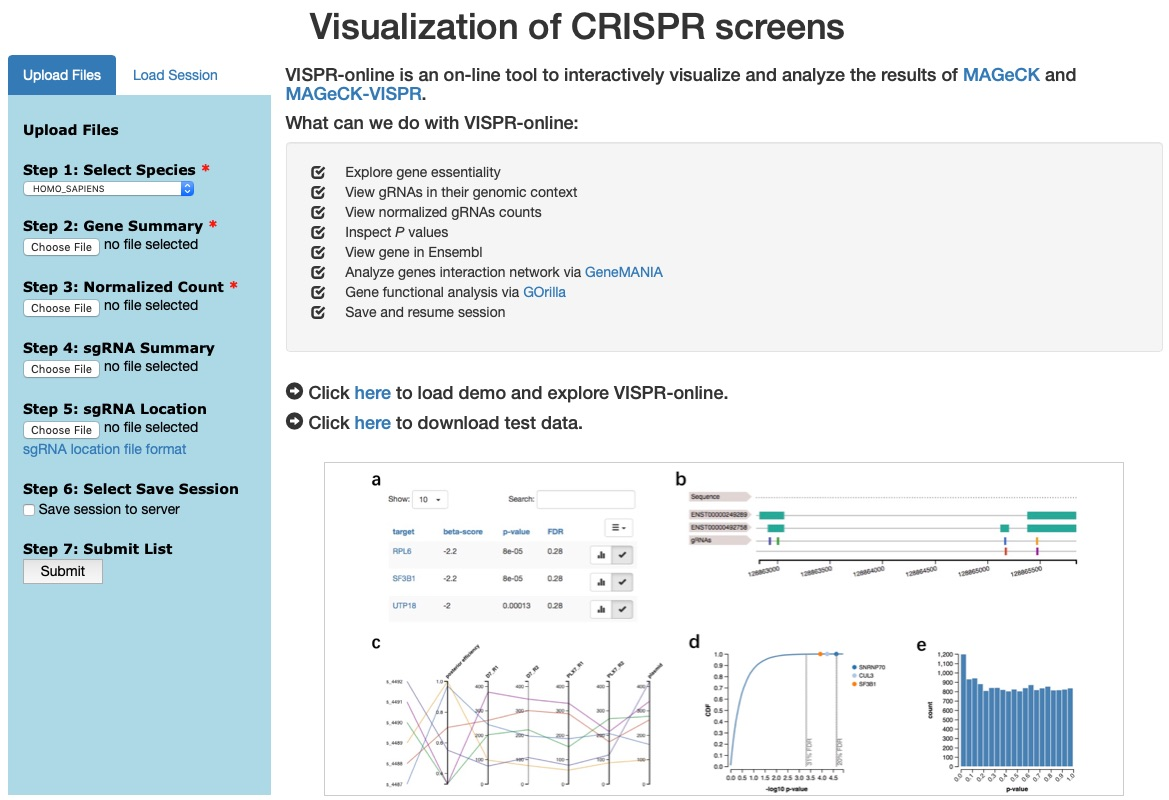
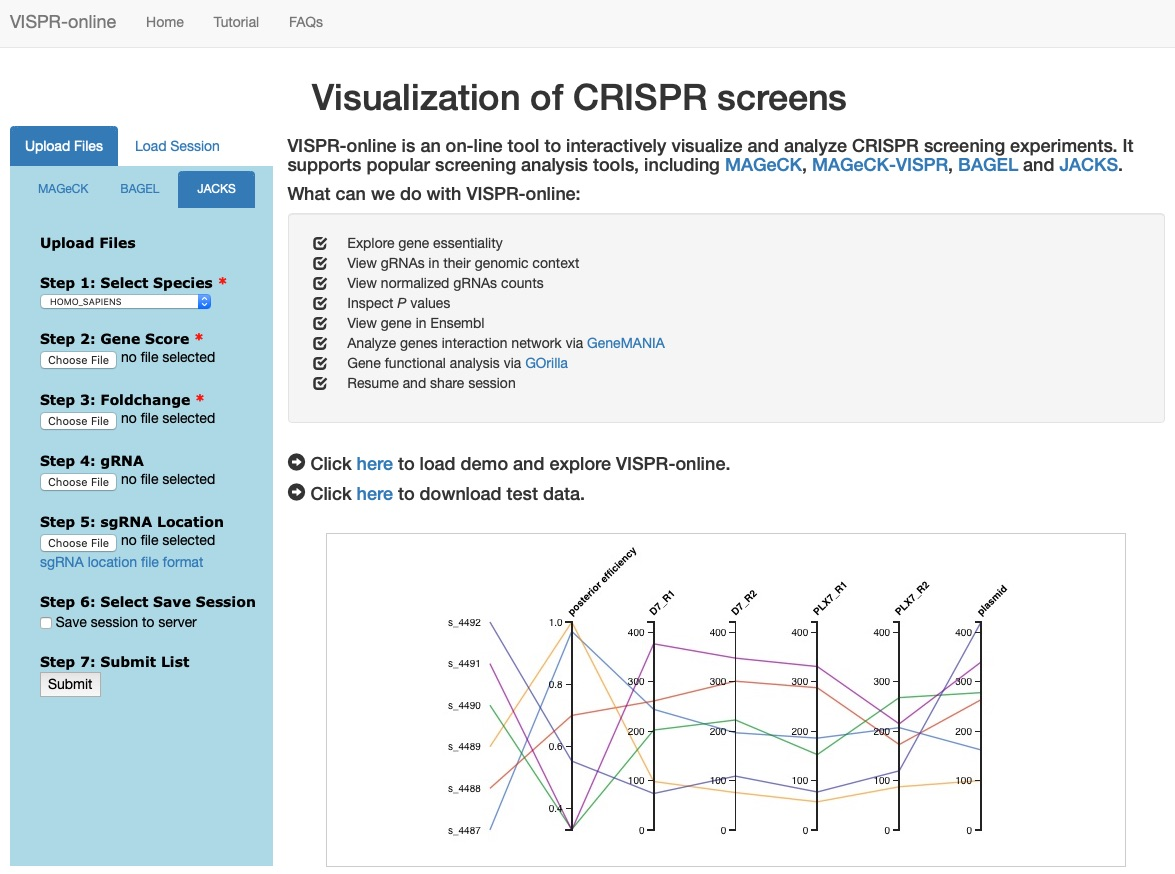
update home page

diff --git a/vispr_screen/templates/index.html b/vispr_screen/templates/index.html
@@ -323,9 +323,12 @@
     <div class="col-md-9">
       <div class="row">
         <p>
-        <h4>VISPR-online is an on-line tool to interactively visualize and analyze the results of
-          <a href="https://www.ncbi.nlm.nih.gov/pubmed/25476604" target="_blank">MAGeCK</a> and
-        <a href="https://www.ncbi.nlm.nih.gov/pubmed/26673418" target="_blank">MAGeCK-VISPR</a>.</h4>
+        <h4>VISPR-online is an on-line tool to interactively visualize and analyze CRISPR screening experiments.
+          It supports popular screening analysis tools, including
+          <a href="https://www.ncbi.nlm.nih.gov/pubmed/25476604" target="_blank">MAGeCK</a>,
+          <a href="https://www.ncbi.nlm.nih.gov/pubmed/26673418" target="_blank">MAGeCK-VISPR</a>,
+          <a href="https://www.ncbi.nlm.nih.gov/pubmed/27083490" target="_blank">BAGEL</a> and
+          <a href="https://www.ncbi.nlm.nih.gov/pubmed/27083490" target="_blank">JACKS</a>.</h4>
         <h4>What can we do with VISPR-online:</h4>
           <div class="well col-sm-12">
 	      <ul>
@@ -336,7 +339,7 @@
             <li>View gene in Ensembl</li>
             <li>Analyze genes interaction network via <a href="https://www.ncbi.nlm.nih.gov/pubmed/20576703" target="_blank">GeneMANIA</a></li>
             <li>Gene functional analysis via <a href="https://www.ncbi.nlm.nih.gov/pubmed/19192299" target="_blank">GOrilla</a></li>
-            <li>Save and resume session</li>
+            <li>Resume and share session</li>
           </ul>
 	      </div>
       </p>
